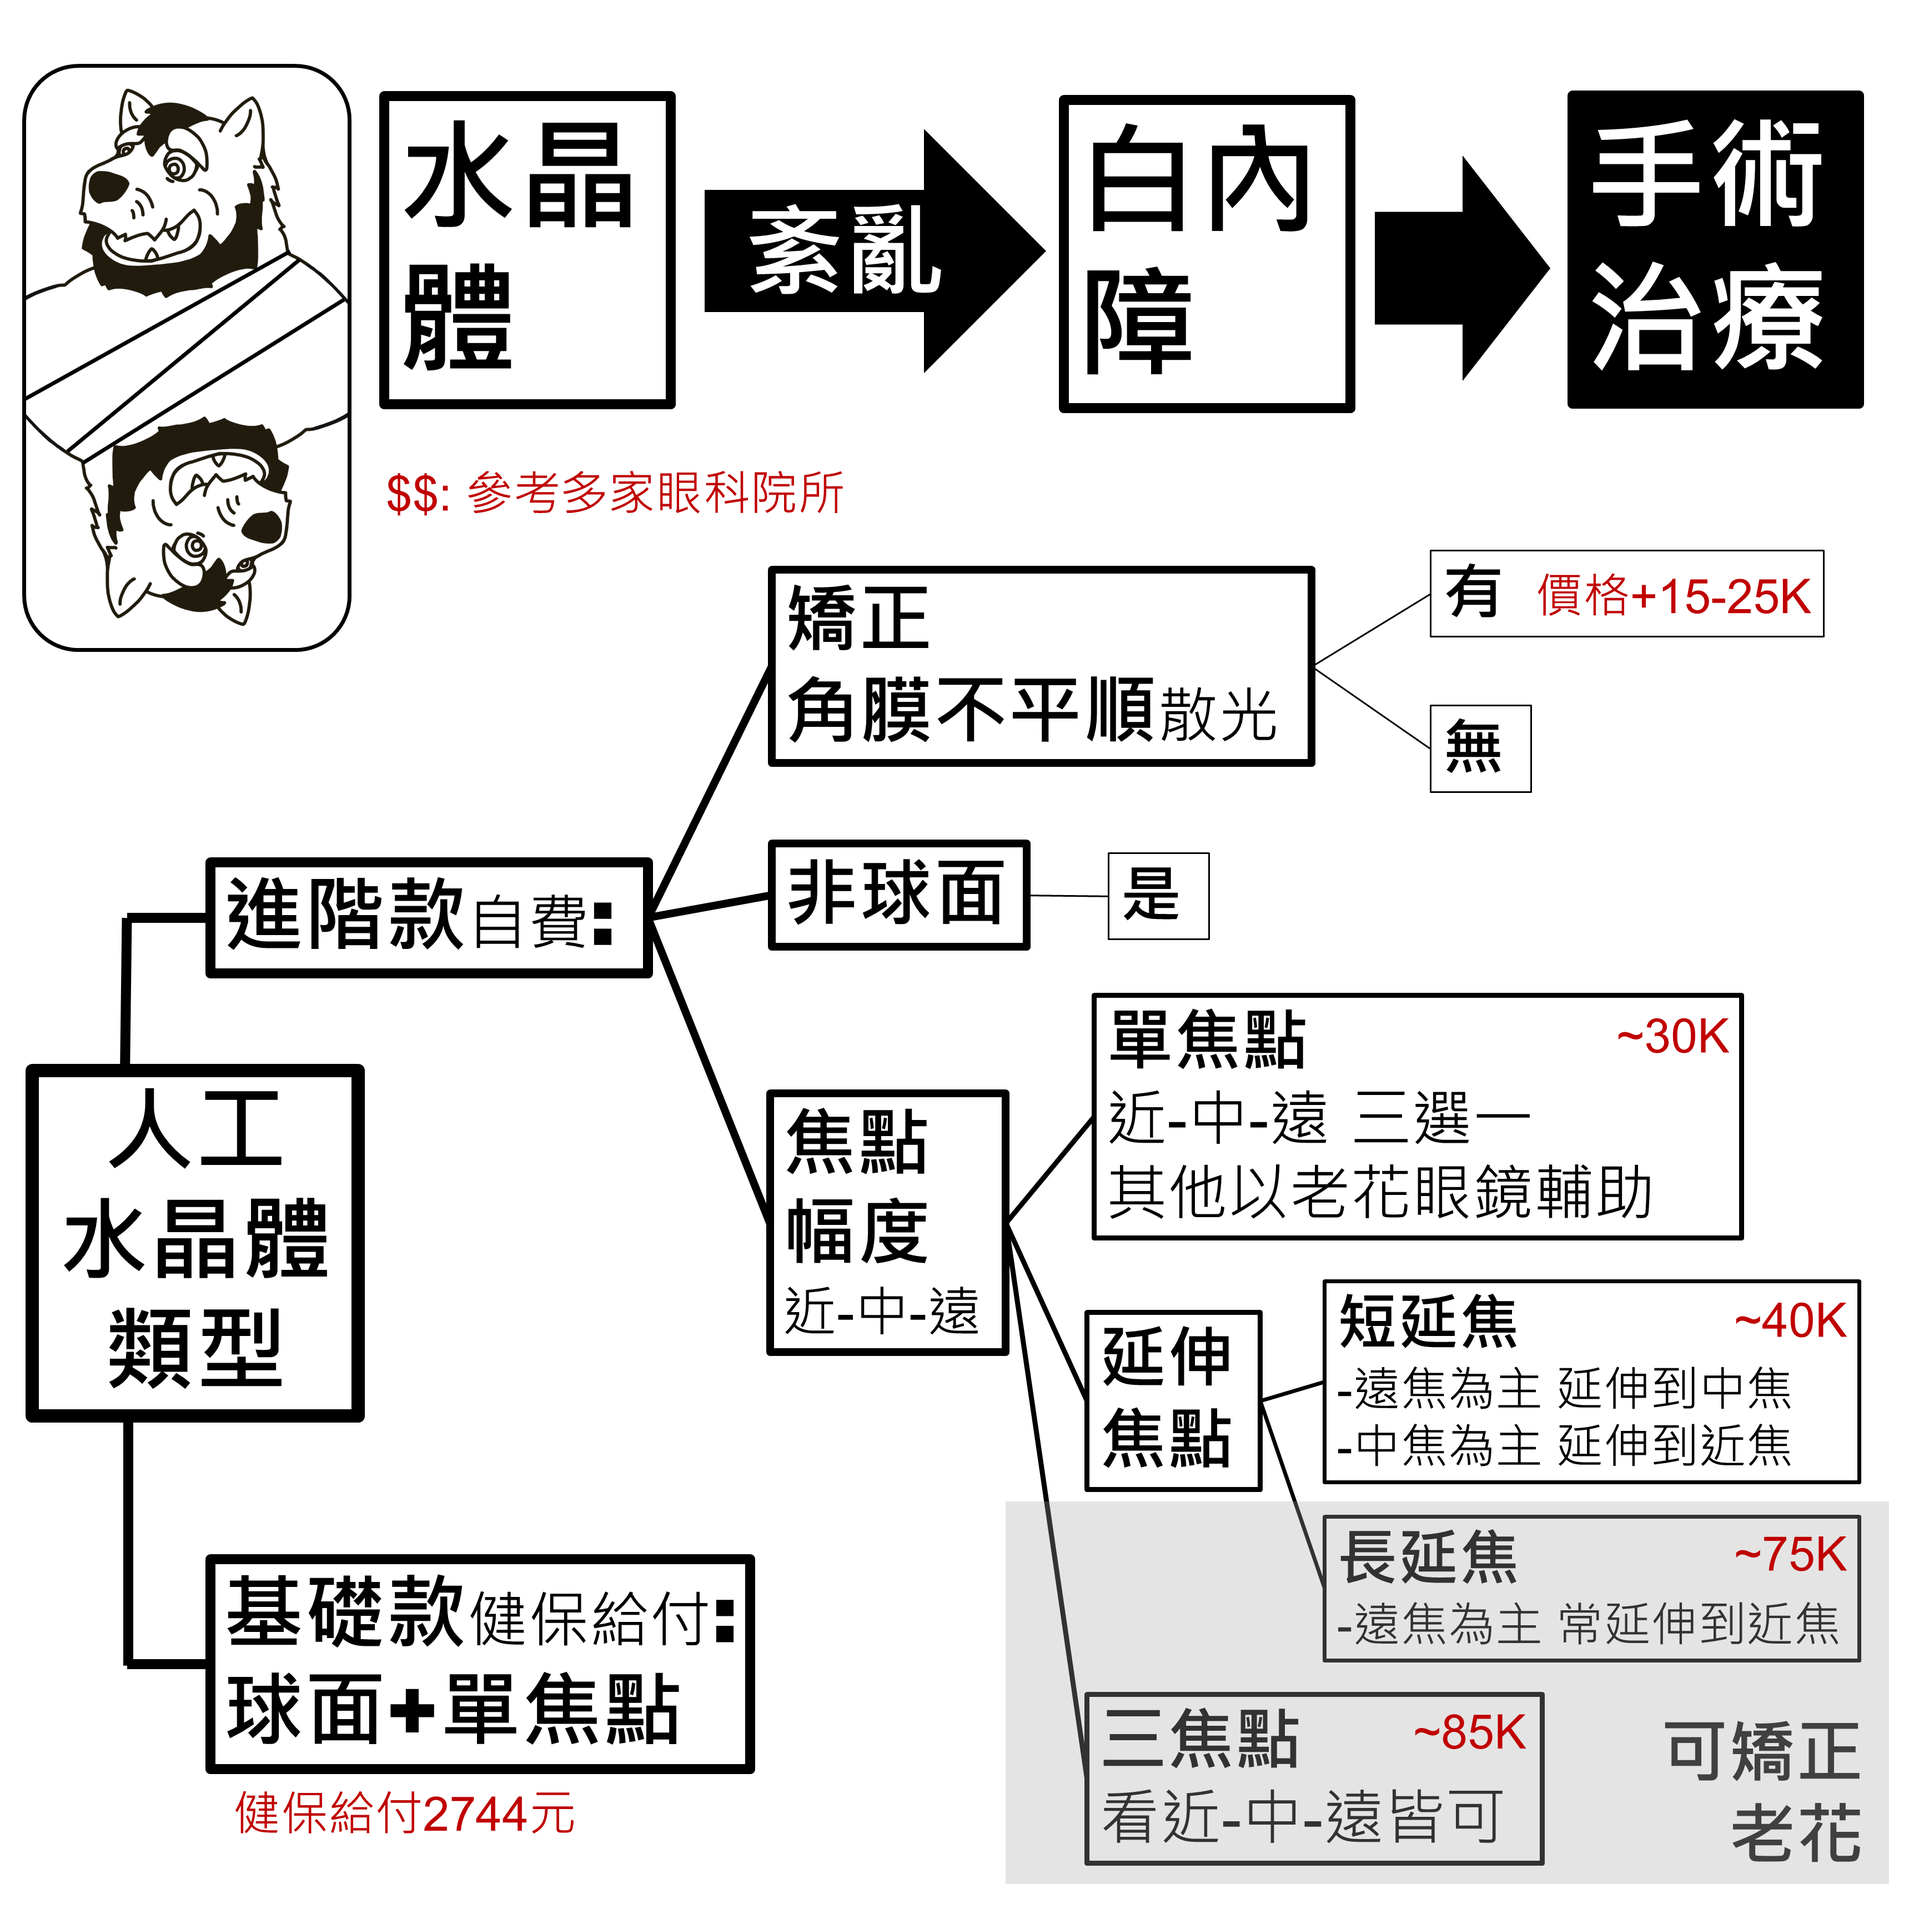
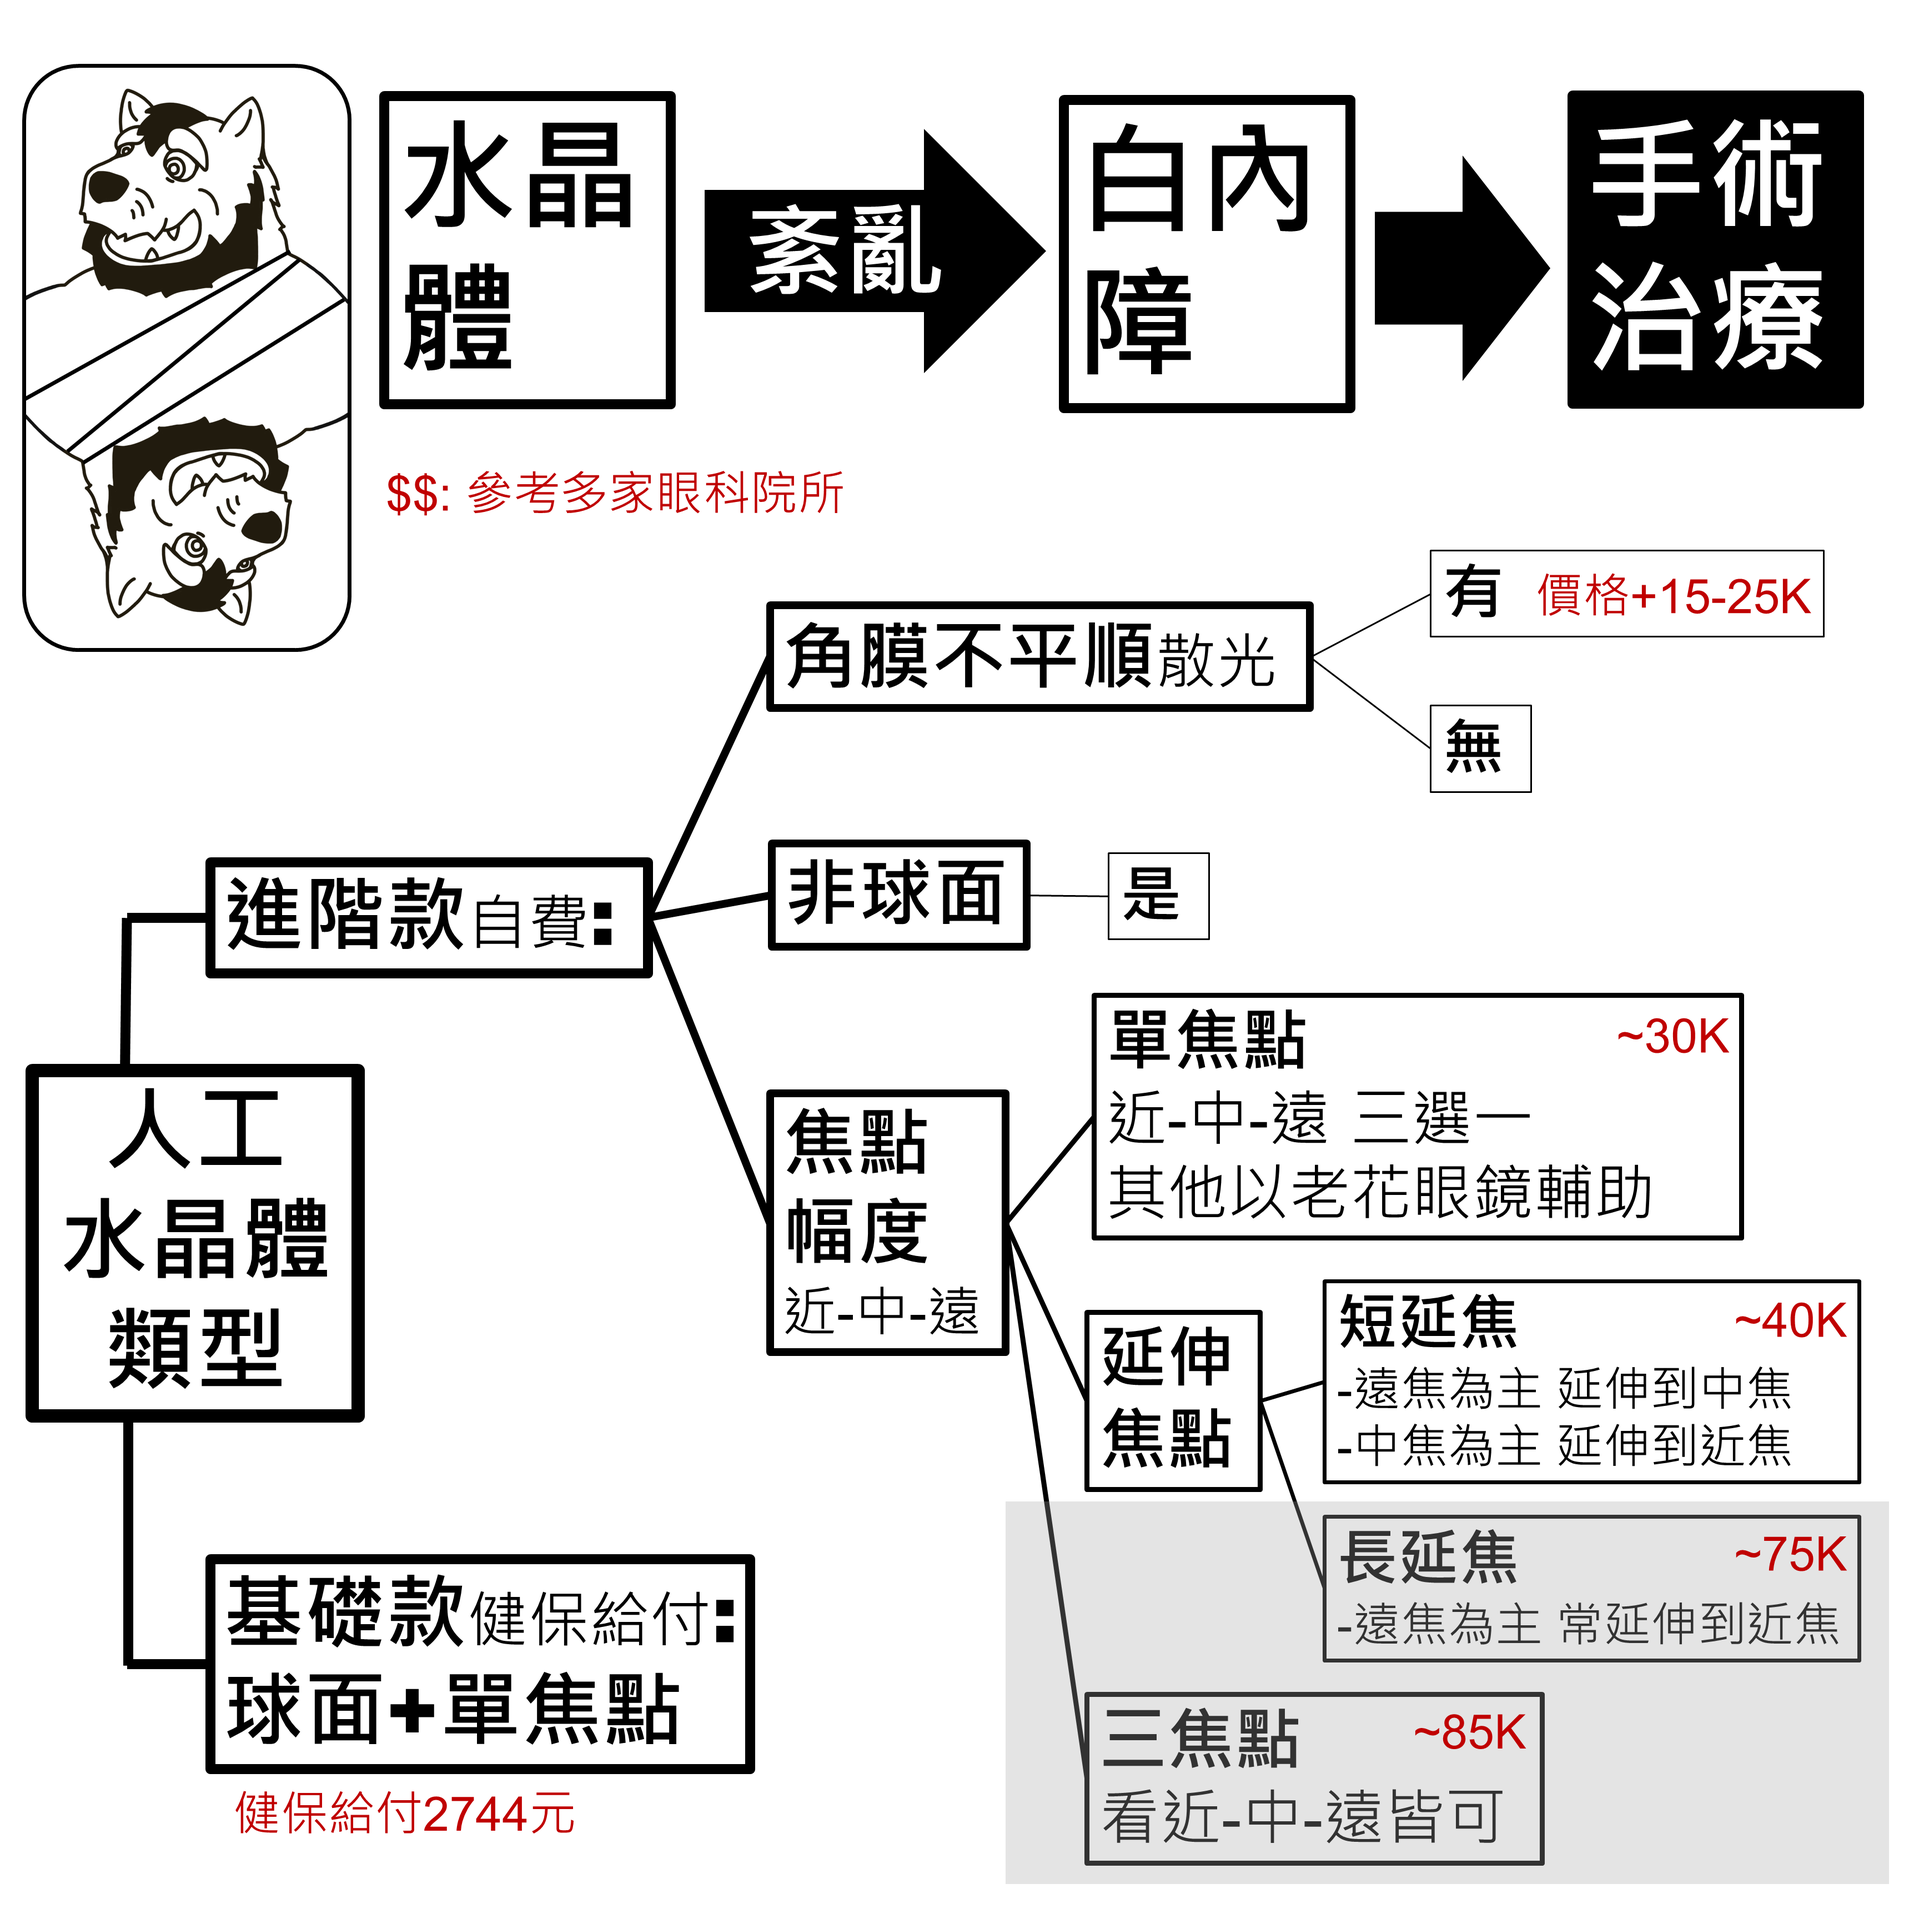
Remove cataract incision section and update IOL cost diagram.

Changed region(s): [[0.374, 0.2805, 0.6857, 0.4052], [0.8727, 0.8727, 0.9662, 0.9662], [0.3429, 0.4052, 0.374, 0.4364]]

diff --git a/pages/medical/chronic-disease/chronic-disease-index/cataract/index.html b/pages/medical/chronic-disease/chronic-disease-index/cataract/index.html
@@ -4,7 +4,7 @@
   <meta charset="UTF-8" />
   <meta name="viewport" content="width=device-width, initial-scale=1.0" />
   <title>白內障 · 單身獸爺的退休生活攻略</title>
-  <meta name="description" content="白內障的水晶體構造、成因與三種型別、LOCS III 嚴重程度分級、手術類型與傷口大小，以及人工水晶體的健保與自費選項費用整理。" />
+  <meta name="description" content="白內障的水晶體構造、成因與三種型別、LOCS III 嚴重程度分級、手術類型，以及人工水晶體的健保與自費選項費用整理。" />
   <link rel="stylesheet" href="../../../../../css/style.css" />
 </head>
 <body>
@@ -46,7 +46,6 @@
           <a href="#locs" class="sidebar-link">嚴重程度與治療時機</a>
           <a href="#treatment" class="sidebar-link">治療方式與手術類型</a>
           <a href="#iol" class="sidebar-link">人工水晶體與費用</a>
-          <a href="#incision" class="sidebar-link">影響傷口大小的因素</a>
         </div>
       </aside>
 
@@ -55,7 +54,6 @@
         <!-- 成因與三種型別 -->
         <section class="content-section" id="causes">
           <h2>成因與三種型別</h2>
-          <p>白內障的成因主要是自然老化，而「哪一區的細胞先出問題」決定了你會先看不清楚哪裡。</p>
           <div class="figure">
             <img src="../../../../../assets/images/medical/chronic-disease/cataract/02-causes-subtypes.png?v=20261009" alt="白內障成因：氧化壓力與細胞分化紊亂，分別對應皮質型、核心型與囊膜下型白內障，再由 LOCS III 分級決定手術類型" loading="lazy" />
           </div>
@@ -63,7 +61,7 @@
           <h3>自然老化的兩條路徑</h3>
           <ul class="link-list">
             <li><strong>氧化壓力：</strong>紫外光、抽菸、喝酒、肥胖、三高、維他命 C 不足</li>
-            <li><strong>細胞分化紊亂：</strong>類固醇</li>
+            <li><strong>細胞分化紊亂：</strong>長期高劑量類固醇</li>
           </ul>
 
           <h3>三種型別</h3>
@@ -84,7 +82,7 @@
         <!-- 水晶體的構造 -->
         <section class="content-section" id="structure">
           <h2>水晶體的構造：為什麼會變混濁</h2>
-          <p>水晶體要同時做到「透光」和「能補充細胞」兩件互相衝突的事，於是分成兩種細胞：負責透光的纖維細胞，以及負責繁殖的增殖細胞。理解這個分工，就能理解白內障為什麼分成三種型別。</p>
+          <p>水晶體要同時做到「透光」和「能補充細胞」兩件互相衝突的事，於是分成兩種細胞：負責透光的纖維細胞，以及負責繁殖的增殖細胞。</p>
           <div class="figure">
             <img src="../../../../../assets/images/medical/chronic-disease/cataract/01-lens-structure.png?v=20261009" alt="水晶體構造：特化上皮、皮質纖維細胞、核心纖維細胞與增殖細胞的分布，以及纖維細胞內 ATP 濃度與蛋白質游離態的假說" loading="lazy" />
           </div>
@@ -204,7 +202,7 @@
         <section class="content-section" id="iol">
           <h2>人工水晶體的類型與費用</h2>
           <div class="figure">
-            <img src="../../../../../assets/images/medical/chronic-disease/cataract/05-iol-types-cost.png?v=20261009" alt="人工水晶體類型：健保給付的基礎款球面單焦點，以及自費進階款的散光矯正、非球面、單焦點、短延焦、長延焦與三焦點價格；費用參考多家眼科院所" loading="lazy" />
+            <img src="../../../../../assets/images/medical/chronic-disease/cataract/05-iol-types-cost.png?v=20261011" alt="人工水晶體類型：健保給付的基礎款球面單焦點，以及自費進階款的散光矯正、非球面、單焦點、短延焦、長延焦與三焦點價格；費用參考多家眼科院所" loading="lazy" />
           </div>
 
           <h3>基礎款：健保給付</h3>
@@ -214,59 +212,10 @@
           </ul>
 
           <h3>進階款：自費</h3>
-          <p>進階款可以疊加三個面向的功能：是否矯正散光、是否為非球面、以及焦點幅度（近－中－遠）。</p>
-          <div class="info-table-wrap">
-            <table class="info-table">
-              <thead>
-                <tr><th>焦點幅度</th><th>說明</th><th>可矯正老花</th><th>自費參考</th></tr>
-              </thead>
-              <tbody>
-                <tr><td>單焦點</td><td>近－中－遠三選一，其他距離以老花眼鏡輔助</td><td>—</td><td>約 30K</td></tr>
-                <tr><td>短延焦</td><td>遠焦為主延伸到中焦；或中焦為主延伸到近焦</td><td>—</td><td>約 40K</td></tr>
-                <tr><td>長延焦</td><td>遠焦為主，常延伸到近焦</td><td>可</td><td>約 75K</td></tr>
-                <tr><td>三焦點</td><td>看近－中－遠皆可</td><td>可</td><td>約 85K</td></tr>
-              </tbody>
-            </table>
-          </div>
-
-          <h3>加購功能</h3>
-          <div class="info-table-wrap">
-            <table class="info-table">
-              <thead>
-                <tr><th>功能</th><th>選項</th><th>價差</th></tr>
-              </thead>
-              <tbody>
-                <tr><td>矯正角膜不平順（散光）</td><td>有</td><td>＋15–25K</td></tr>
-                <tr><td>矯正角膜不平順（散光）</td><td>無</td><td>—</td></tr>
-                <tr><td>非球面</td><td>是</td><td>—</td></tr>
-              </tbody>
-            </table>
-          </div>
+          <p>進階款可以疊加三個面向的功能：是否調整散光、是否為非球面、以及焦點幅度（近－中－遠）。</p>
 
           <div class="callout">
             💡 以上費用參考多家眼科院所公開行情，非特定院所報價；實際金額請向醫療院所確認最新資訊。
-          </div>
-        </section>
-
-        <!-- 影響傷口大小的因素 -->
-        <section class="content-section" id="incision">
-          <h2>影響手術傷口大小的因素</h2>
-          <p>傷口大小由兩件事一起決定：<strong>原始白內障的嚴重程度</strong>（參 LOCS III 分級）決定能用哪種手術，而手術方式又決定了能塞進去的<strong>人工水晶體硬度</strong>。</p>
-          <div class="figure">
-            <img src="../../../../../assets/images/medical/chronic-disease/cataract/06-incision-size-factors.png?v=20261009" alt="影響白內障手術傷口大小的因素：白內障嚴重程度對應的手術方式，以及軟式注射式、軟式摺疊式與硬式水晶體的傷口寬度" loading="lazy" />
-          </div>
-
-          <div class="info-table-wrap">
-            <table class="info-table">
-              <thead>
-                <tr><th>原始白內障嚴重程度</th><th>手術方式</th><th>人工水晶體硬度</th><th>傷口寬度</th></tr>
-              </thead>
-              <tbody>
-                <tr><td rowspan="2">較不嚴重</td><td rowspan="2">小切口超音波晶體乳化<br>（適用）</td><td>軟式注射式</td><td>2.2–2.4 mm</td></tr>
-                <tr><td>軟式摺疊式</td><td>3.2 mm</td></tr>
-                <tr><td>較嚴重</td><td>傳統囊外摘除法<br>（只能用）</td><td>硬式水晶體</td><td>7–8 mm</td></tr>
-              </tbody>
-            </table>
           </div>
         </section>
 
